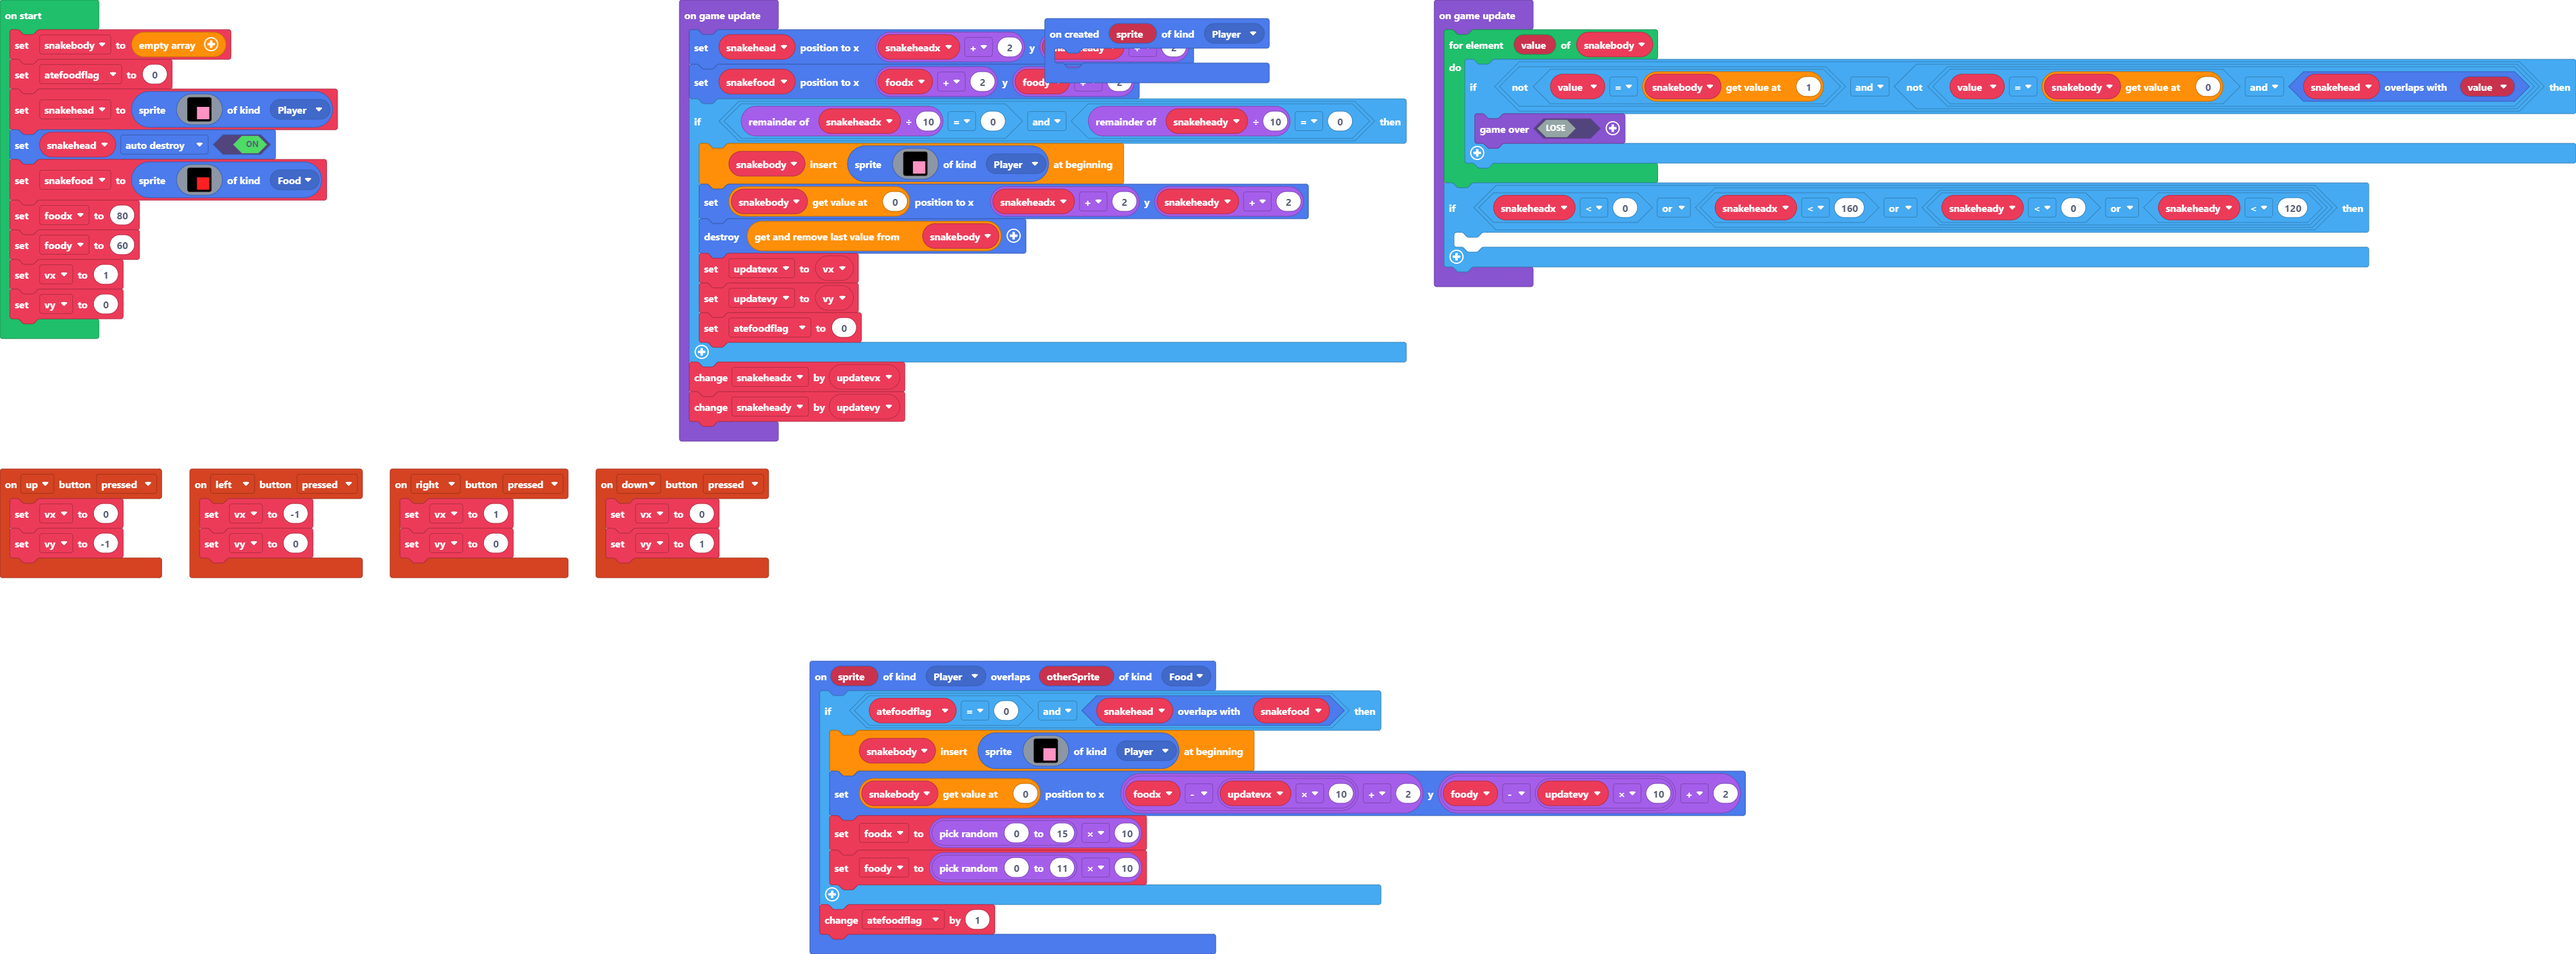
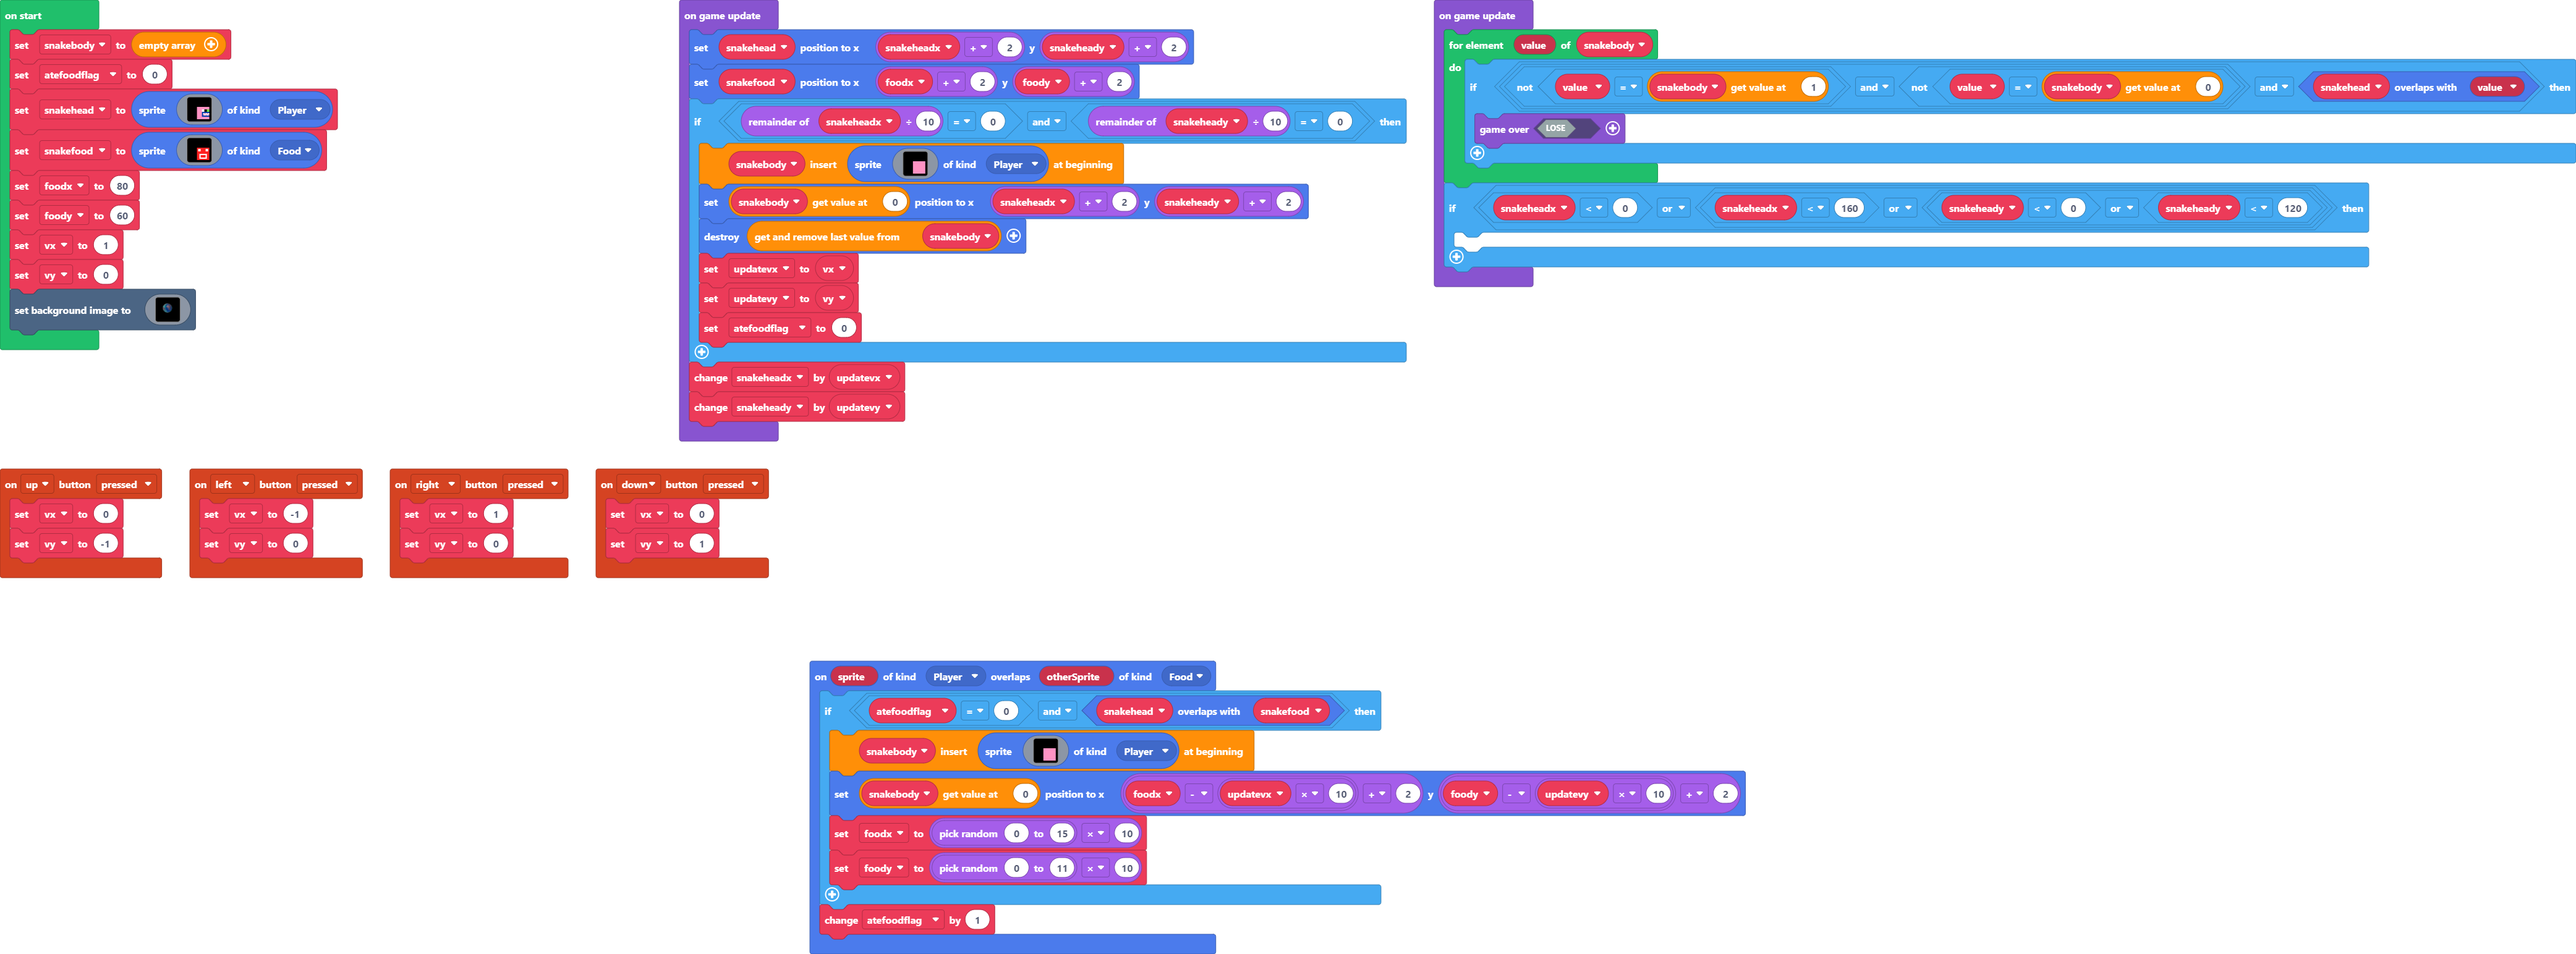
change

diff --git a/main.ts b/main.ts
@@ -40,9 +40,6 @@ sprites.onOverlap(SpriteKind.Player, SpriteKind.Food, function (sprite, otherSpr
     }
     atefoodflag += 1
 })
-sprites.onCreated(SpriteKind.Player, function (sprite) {
-	
-})
 let snakeheady = 0
 let snakeheadx = 0
 let updatevy = 0
@@ -66,16 +63,15 @@ snakehead = sprites.create(img`
     . . . . . . . . . . . . . . . . 
     . . . . . . 3 3 3 3 3 3 3 3 3 3 
     . . . . . . 3 3 3 3 3 3 3 3 3 3 
-    . . . . . . 3 3 3 3 3 3 3 3 3 3 
-    . . . . . . 3 3 3 3 3 3 3 3 3 3 
-    . . . . . . 3 3 3 3 3 3 3 3 3 3 
-    . . . . . . 3 3 3 3 3 3 3 3 3 3 
-    . . . . . . 3 3 3 3 3 3 3 3 3 3 
-    . . . . . . 3 3 3 3 3 3 3 3 3 3 
+    . . . . . . 3 3 3 3 1 1 f f 7 7 
+    . . . . . . 3 3 3 3 1 1 f f 7 7 
+    . . . . . . 3 3 3 3 8 8 8 8 8 8 
+    . . . . . . 3 3 3 3 8 1 3 1 3 1 
+    . . . . . . 3 3 3 3 8 3 1 3 1 3 
+    . . . . . . 3 3 3 3 8 8 8 8 8 8 
     . . . . . . 3 3 3 3 3 3 3 3 3 3 
     . . . . . . 3 3 3 3 3 3 3 3 3 3 
     `, SpriteKind.Player)
-snakehead.setFlag(SpriteFlag.AutoDestroy, true)
 snakefood = sprites.create(img`
     . . . . . . . . . . . . . . . . 
     . . . . . . . . . . . . . . . . 
@@ -84,20 +80,142 @@ snakefood = sprites.create(img`
     . . . . . . . . . . . . . . . . 
     . . . . . . . . . . . . . . . . 
     . . . . . . 2 2 2 2 2 2 2 2 2 2 
+    . . . . . . 2 1 1 2 2 2 2 1 1 2 
+    . . . . . . 2 1 1 2 2 2 2 1 1 2 
     . . . . . . 2 2 2 2 2 2 2 2 2 2 
     . . . . . . 2 2 2 2 2 2 2 2 2 2 
-    . . . . . . 2 2 2 2 2 2 2 2 2 2 
-    . . . . . . 2 2 2 2 2 2 2 2 2 2 
-    . . . . . . 2 2 2 2 2 2 2 2 2 2 
-    . . . . . . 2 2 2 2 2 2 2 2 2 2 
-    . . . . . . 2 2 2 2 2 2 2 2 2 2 
-    . . . . . . 2 2 2 2 2 2 2 2 2 2 
+    . . . . . . 2 2 1 1 1 1 1 1 2 2 
+    . . . . . . 2 2 1 2 2 2 2 1 2 2 
+    . . . . . . 2 2 1 2 2 2 2 1 2 2 
+    . . . . . . 2 2 1 1 1 1 1 1 2 2 
     . . . . . . 2 2 2 2 2 2 2 2 2 2 
     `, SpriteKind.Food)
 foodx = 80
 foody = 60
 vx = 1
 vy = 0
+scene.setBackgroundImage(img`
+    ffffffffffffffffffffffffffffffffffffffffffffffffffffffffffffffffffffffffffffffffffffffffffffffffffffffffffffffffffffffffffffffffffffffffffffffffffffffffffffffff
+    ffffffffffffffffffffffffffffffffffffffffffffffffffffffffffffffffffffffffffffffffffffffffffffffffffffffffffffffffffffffffffffffffffffffffffffffffffffffffffffffff
+    ffffffffffffffffffffffffffffffffffffffffffffffffffffffffffffffffffffffffffffffffffffffffffffffffffffffffffffffffffffffffffffffffffffffffffffffffffffffffffffffff
+    ffffffffffffffffffffffffffffffffffffffffffffffffffffffffffffffffffffffffffffffffffffffffffffffffffffffffffffffffffffffffffffffffffffffffffffffffffffffffffffffff
+    ffffffffffffffffffffffffffffffffffffffffffffffffffffffffffffffffffffffffffffffffffffffffffffffffffffffffffffffffffffffffffffffffffffffffffffffffffffffffffffffff
+    ffffffffffffffffffffffffffffffffffffffffffffffffffffffffffffffffffffffffffffffffffffffffffffffffffffffffffffffffffffffffffffffffffffffffffffffffffffffffffffffff
+    ffffffffffffffffffffffffffffffffffffffffffffffffffffffffffffffffffffffffffffffffffffffffffffffffffffffffffffffffffffffffffffffffffffffffffffffffffffffffffffffff
+    ffffffffffffffffffffffffffffffffffffffffffffffffffffffffffffffffffffffffffffffffffffffffffffffffffffffffffffffffffffffffffffffffffffffffffffffffffffffffffffffff
+    ffffffffffffffffffffffffffffffffffffffffffffffffffffffffffffffffffffffffffffffffffffffffffffffffffffffffffffffffffffffffffffffffffffffffffffffffffffffffffffffff
+    ffffffffffffffffffffffffffffffffffffffffffffffffffffffffffffffffffffffffffffffffffffffffffffffffffffffffffffffffffffffffffffffffffffffffffffffffffffffffffffffff
+    ffffffffffffffffffffffffffffffffffffffffffffffffffffffffffffffffffffffffffffffffffffffffffffffffffffffffffffffffffffffffffffffffffffffffffffffffffffffffffffffff
[73 lines of base64/hex data omitted]
+    ffffffffffffffffffffffffffffffffffffffffffffffffffffffffffffffffffffffffffffffffffffffffffffffffffffffffffffffffffffffffffffffffffffffffffffffffffffffffffffffff
+    ffffffffffffffffffffffffffffffffffffffffffffffffffffffffffffffffffffffffffffffffffffffffffffffffffffffffffffffffffffffffffffffffffffffffffffffffffffffffffffffff
+    ffffffffffffffffffffffffffffffffffffffffffffffffffffffffffffffffffffffffffffffffffffffffffffffffffffffffffffffffffffffffffffffffffffffffffffffffffffffffffffffff
+    ffffffffffffffffffffffffffffffffffffffffffffffffffffffffffffffffffffffffffffffffffffffffffffffffffffffffffffffffffffffffffffffffffffffffffffffffffffffffffffffff
+    ffffffffffffffffffffffffffffffffffffffffffffffffffffffffffffffffffffffffffffffffffffffffffffffffffffffffffffffffffffffffffffffffffffffffffffffffffffffffffffffff
+    ffffffffffffffffffffffffffffffffffffffffffffffffffffffffffffffffffffffffffffffffffffffffffffffffffffffffffffffffffffffffffffffffffffffffffffffffffffffffffffffff
+    ffffffffffffffffffffffffffffffffffffffffffffffffffffffffffffffffffffffffffffffffffffffffffffffffffffffffffffffffffffffffffffffffffffffffffffffffffffffffffffffff
+    ffffffffffffffffffffffffffffffffffffffffffffffffffffffffffffffffffffffffffffffffffffffffffffffffffffffffffffffffffffffffffffffffffffffffffffffffffffffffffffffff
+    ffffffffffffffffffffffffffffffffffffffffffffffffffffffffffffffffffffffffffffffffffffffffffffffffffffffffffffffffffffffffffffffffffffffffffffffffffffffffffffffff
+    ffffffffffffffffffffffffffffffffffffffffffffffffffffffffffffffffffffffffffffffffffffffffffffffffffffffffffffffffffffffffffffffffffffffffffffffffffffffffffffffff
+    ffffffffffffffffffffffffffffffffffffffffffffffffffffffffffffffffffffffffffffffffffffffffffffffffffffffffffffffffffffffffffffffffffffffffffffffffffffffffffffffff
+    ffffffffffffffffffffffffffffffffffffffffffffffffffffffffffffffffffffffffffffffffffffffffffffffffffffffffffffffffffffffffffffffffffffffffffffffffffffffffffffffff
+    ffffffffffffffffffffffffffffffffffffffffffffffffffffffffffffffffffffffffffffffffffffffffffffffffffffffffffffffffffffffffffffffffffffffffffffffffffffffffffffffff
+    ffffffffffffffffffffffffffffffffffffffffffffffffffffffffffffffffffffffffffffffffffffffffffffffffffffffffffffffffffffffffffffffffffffffffffffffffffffffffffffffff
+    ffffffffffffffffffffffffffffffffffffffffffffffffffffffffffffffffffffffffffffffffffffffffffffffffffffffffffffffffffffffffffffffffffffffffffffffffffffffffffffffff
+    ffffffffffffffffffffffffffffffffffffffffffffffffffffffffffffffffffffffffffffffffffffffffffffffffffffffffffffffffffffffffffffffffffffffffffffffffffffffffffffffff
+    ffffffffffffffffffffffffffffffffffffffffffffffffffffffffffffffffffffffffffffffffffffffffffffffffffffffffffffffffffffffffffffffffffffffffffffffffffffffffffffffff
+    ffffffffffffffffffffffffffffffffffffffffffffffffffffffffffffffffffffffffffffffffffffffffffffffffffffffffffffffffffffffffffffffffffffffffffffffffffffffffffffffff
+    ffffffffffffffffffffffffffffffffffffffffffffffffffffffffffffffffffffffffffffffffffffffffffffffffffffffffffffffffffffffffffffffffffffffffffffffffffffffffffffffff
+    ffffffffffffffffffffffffffffffffffffffffffffffffffffffffffffffffffffffffffffffffffffffffffffffffffffffffffffffffffffffffffffffffffffffffffffffffffffffffffffffff
+    ffffffffffffffffffffffffffffffffffffffffffffffffffffffffffffffffffffffffffffffffffffffffffffffffffffffffffffffffffffffffffffffffffffffffffffffffffffffffffffffff
+    ffffffffffffffffffffffffffffffffffffffffffffffffffffffffffffffffffffffffffffffffffffffffffffffffffffffffffffffffffffffffffffffffffffffffffffffffffffffffffffffff
+    ffffffffffffffffffffffffffffffffffffffffffffffffffffffffffffffffffffffffffffffffffffffffffffffffffffffffffffffffffffffffffffffffffffffffffffffffffffffffffffffff
+    ffffffffffffffffffffffffffffffffffffffffffffffffffffffffffffffffffffffffffffffffffffffffffffffffffffffffffffffffffffffffffffffffffffffffffffffffffffffffffffffff
+    ffffffffffffffffffffffffffffffffffffffffffffffffffffffffffffffffffffffffffffffffffffffffffffffffffffffffffffffffffffffffffffffffffffffffffffffffffffffffffffffff
+    ffffffffffffffffffffffffffffffffffffffffffffffffffffffffffffffffffffffffffffffffffffffffffffffffffffffffffffffffffffffffffffffffffffffffffffffffffffffffffffffff
+    ffffffffffffffffffffffffffffffffffffffffffffffffffffffffffffffffffffffffffffffffffffffffffffffffffffffffffffffffffffffffffffffffffffffffffffffffffffffffffffffff
+    ffffffffffffffffffffffffffffffffffffffffffffffffffffffffffffffffffffffffffffffffffffffffffffffffffffffffffffffffffffffffffffffffffffffffffffffffffffffffffffffff
+    ffffffffffffffffffffffffffffffffffffffffffffffffffffffffffffffffffffffffffffffffffffffffffffffffffffffffffffffffffffffffffffffffffffffffffffffffffffffffffffffff
+    ffffffffffffffffffffffffffffffffffffffffffffffffffffffffffffffffffffffffffffffffffffffffffffffffffffffffffffffffffffffffffffffffffffffffffffffffffffffffffffffff
+    ffffffffffffffffffffffffffffffffffffffffffffffffffffffffffffffffffffffffffffffffffffffffffffffffffffffffffffffffffffffffffffffffffffffffffffffffffffffffffffffff
+    ffffffffffffffffffffffffffffffffffffffffffffffffffffffffffffffffffffffffffffffffffffffffffffffffffffffffffffffffffffffffffffffffffffffffffffffffffffffffffffffff
+    ffffffffffffffffffffffffffffffffffffffffffffffffffffffffffffffffffffffffffffffffffffffffffffffffffffffffffffffffffffffffffffffffffffffffffffffffffffffffffffffff
+    ffffffffffffffffffffffffffffffffffffffffffffffffffffffffffffffffffffffffffffffffffffffffffffffffffffffffffffffffffffffffffffffffffffffffffffffffffffffffffffffff
+    ffffffffffffffffffffffffffffffffffffffffffffffffffffffffffffffffffffffffffffffffffffffffffffffffffffffffffffffffffffffffffffffffffffffffffffffffffffffffffffffff
+    ffffffffffffffffffffffffffffffffffffffffffffffffffffffffffffffffffffffffffffffffffffffffffffffffffffffffffffffffffffffffffffffffffffffffffffffffffffffffffffffff
+    `)
 game.onUpdate(function () {
     snakehead.setPosition(snakeheadx + 2, snakeheady + 2)
     snakefood.setPosition(foodx + 2, foody + 2)
@@ -131,7 +249,7 @@ game.onUpdate(function () {
 })
 game.onUpdate(function () {
     for (let value of snakebody) {
-        if (!(value == snakebody[1]) && !(value == snakebody[0] && snakehead.overlapsWith(value))) {
+        if (!(value == snakebody[1]) && !(value == snakebody[0]) && snakehead.overlapsWith(value)) {
             game.over(false)
         }
     }
